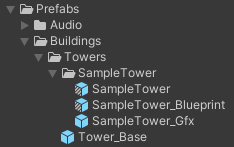
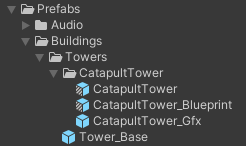
docs: for first tower prototype

Changed region(s): [[0.1197, 0.137, 0.9573, 0.9863], [0.0897, 0.0274, 0.359, 0.1096]]

diff --git a/docs/content/docs/docs-technical/systems/towers/index.md b/docs/content/docs/docs-technical/systems/towers/index.md
@@ -5,31 +5,36 @@ description: Dokumentation über Türme.
 ---
 
 Auf dieser Seite findet sich die Dokumentation, wie man einen Turm im Spiel erstellen und organisiert ablegen kann.
+Wichtig zu verstehen ist, dass der Turm selbst keine großartige Funktion hat.
+Oft würde die Funktion, z.B. von einem Katapult-Turm, direkt "in den Turm" implementiert werden.
+Wir gehen im Spiel allerdings einen anderen Ansatz und sehen die Waffe als eigenständige Waffe, die die eigentliche Funktion implementiert hat.
+Der Turm ist nur ein "Etwas", das die Waffe trägt.
+Daher ist es wichtig, sich auch den Abschnitt über [Waffen](../weapons/) durchzulesen.
 
-## Prefab
+## Organisation
+
+### Prefabs
 
 Im Ordner `_Game/Prefabs/Buildings/Towers` befinden sich alle vom Spieler baubaren Türme.
 Jeder Turm bekommt hier seinen eigenen Ordner.
 
-Als Beispiel zeigt das Bild den "SampleTower":
+Als Beispiel zeigt das Bild den "CatapultTower":
 
-![SampleTower](assets/towers.png)
+![CatapultTower](assets/towers.png)
 
-Im Bild unten zu sehen ist das Basis-Prefab `Tower_Base`, das für alle Türme genutzt werden muss.
-Aus diesem Prefab wird eine Variante für den eigentlichen Tower erstellt.
+Jeder Turm besteht aus drei Prefabs:
 
-Jeder Turm benötigt drei Prefabs:
-
-1. `Turm_Gfx`: Beinhaltet die grafische Umsetzung des Turms ohne weitere Scripts.
-2. `Turm_Blueprint`: Ist eine Variante von `Turm_Gfx`, bei dem die Materialen zum `Blueprint` geändert wurden.
+1. `Turmname_Gfx`: Beinhaltet die grafische Umsetzung des Turms ohne weitere Scripts.
+2. `Turmname_Blueprint`: Ist eine Variante von `Turmname_Gfx`, bei dem die Materialen zum `Blueprint` geändert wurden.
   Diese Repräsentation wird genutzt, um dem Spieler ein "Geist"-Element anzuzeigen, wo der Turm gebaut werden kann.
   Im Bild sieht man links den Blueprint/Geist und rechts den gebauten Turm.
 
   ![Geist und echter Turm](assets/ghost.png)
 
-3. `Turm`: Der eigentliche Turm. Er nutzt `Turm_Gfx` für die visuelle Darstellung (siehe Abschnitt [Turmaufbau](#Turmaufbau)) und hat alle benötigten Scripts, um seine Funktion zu erfüllen.
+3. `Turmname`: Der eigentliche funktionierende Turm, der im Spiel platziert wird. Er nutzt `Tower_Base` als Basis-Prefab,
+`Turmname_Gfx` für die visuelle Darstellung und eine Waffe. Wie genau alles zusammengestöpselt ist, erklärt der Abschnitt [Turmaufbau](#Turmaufbau).
 
-## ScriptableObject
+### ScriptableObject
 
 Zu jedem baubaren Turm gehört ein ScriptableObject, das im Ordner `_Game/ScriptableObjects/Buildings/Towers` abgelegt wird.
 
@@ -37,12 +42,31 @@ Zu jedem baubaren Turm gehört ein ScriptableObject, das im Ordner `_Game/Script
 
 In diesem ScriptableObject stehen aktuell nur, welches Prefab gebaut werden kann und welches Prefab als Blueprint dient.
 
-Später werden hier noch weitere Informationen stehen, z.B. welche Basis-Reichweite, -Feuerkraft, etc. ein Turm hat.
-
 ## Turmaufbau
+
+Im weiteren wird beschrieben, wie die drei Prefabs für einen Turm aufgebaut sind.
+
+### Gfx-Prefab
+
+![Gfx-Prefab](assets/gfx-organization.png)
+
+* Basis-Prefab.
+* Beinhaltet direkt das Modell oder Modelle für die visuelle Repräsentation.
+* Beinhaltet ein leeres GameObject "Weapon" das dort platziert, wo später die Waffe vom Turm stehen wird.
+
+### Blueprint-Prefab
+
+![Blueprint-Prefab](assets/blueprint-organization.png)
+
+* Varianten-Prefab vom obigen Gfx-Prefab.
+* Hier werden alle Materialen (sofern nötig) zum Blueprint-Material geändert.
+* Sollte der Turm irgendwelche Effekte haben, die wir im Baumodus nicht benötigen, dann können sie hier ausgeschaltet werden.
+* In das GameObject `Weapon` wird jetzt die visuelle Repräsentation einer Waffe gelegt (siehe [Waffenaufbau](../weapons/#Waffenaufbau).
+
+### Turm-Prefab
 
 ![Turmaufbau](assets/tower-organization.png)
 
-Jeder Turm besteht aus der `Tower_Base`.
-In dessen GameObject `GFX` wird das Prefab `Turm_Gfx` abgelegt.
-Alle weiteren Scripts und was sonst so benötigt wird, um den Turm zum Leben zu erwecken, werden direkt auf Root-Objekt platziert.
+* Varianten-Prefab von `Tower_Base`.
+* In das GameObject `GFX` wird das Gfx-Prefab (siehe oben) abgelegt.
+* Beinhaltet alle Scripts, um den Turm zum Leben zu erwecken.

diff --git a/docs/content/docs/docs-technical/systems/weapons/_index.md b/docs/content/docs/docs-technical/systems/weapons/_index.md
@@ -1,0 +1,66 @@
+---
+title: Waffen
+linkTitle: Waffen
+description: Dokumentation über Waffen.
+---
+
+Auf dieser Seite finden sich alle Informationen zu den im Spiel implementiert Waffen und wie man neue Waffen erstellen kann.
+Wichtig ist, dass mit Waffe nicht der Turm gemeint ist.
+Der [Turm](../towers/) ist eine recht dümmliche Struktur, die nur zum Tragen einer Waffe dient.
+
+Die Waffe implementiert die Funktion, um z.B. ein Katapult zum Abschuss zu bringen.
+Daher unterscheiden wir die [Waffen nach ihrer Art](weapon-types/), z.B. ballistische Waffen (Katapult), direkte Waffen (Gewehre), etc.
+
+## Organisation
+
+Ähnlich wie [Türme](../towers/) bestehen Waffen aus Prefabs und ScriptableObjects.
+
+### Prefabs
+
+Im Ordner `_Game/Prefabs/Weapons` befinden sich alle Waffen.
+Jede Waffe bekommt hier einen eigenen Ordner.
+
+Als Beispiel zeigt das Bild das "Catapult":
+
+![Waffen-Prefabs](assets/weapons.png)
+
+Jede Waffe besteht aus zwei Prefabs:
+
+1. `Waffenname_Gfx`: Beinhaltet die grafische Umsetzung der Waffe ohne weitere Scripts.
+2. `Waffenname`: Ist eine Variante von `Waffenname_Gfx` und beinhaltet alle Scripts, um die Waffe zum Leben zu erwecken.
+
+### ScriptableObject
+
+Zu jeder Waffe gehört ein ScriptableObject, das im Ordner `_Game/ScriptableObjects/Weapons` abgelegt wird.
+
+![ScriptableObject einer Waffe](assets/weapon-so.png)
+
+In diesem ScriptableObject werden alle Parameter für eine Waffe festgehalten, z.B.
+
+* Reichweite
+* Mindestreichweite
+* Angriffswinkel
+* etc.
+
+Diese Werte sind als Basiswerte zu verstehen und werden später durch Forschung verbessert werden können.
+
+## Waffenaufbau
+
+### Gfx-Prefab
+
+![Gfx-Prefab](assets/weapon-gfx.png)
+
+* Basis-Prefab.
+* Beinhaltet direkt das Modell oder Modelle für die visuelle Repräsentation.
+
+### Waffe-Prefab
+
+* Varianten-Prefab vom obigen Gfx-Prefab.
+* Beinhaltet alle Scripts, um die Waffe zum Leben zu erwecken.
+
+![Waffe-Inspektor](assets/weapon-inspector.png)
+
+* Eine Waffe nutzt je nach Waffenart ein bestimmtes Script.
+  * z.B. benutzt eine ballistische Waffe das Script `BallisticWeapon`.
+  * Hier wird das ScriptableObject für die Waffendefinition verknüpft (siehe [oben](#ScriptableObject) als auch ein [Target Locator](target-locator/).
+  * Zusätzlich wird das Prefab für ein [Projektil](weapon-types/#Projektile) bestimmt.

diff --git a/docs/content/docs/docs-technical/systems/weapons/weapon-types/index.md b/docs/content/docs/docs-technical/systems/weapons/weapon-types/index.md
@@ -1,0 +1,31 @@
+---
+title: Waffenarten
+linkTitle: Waffenarten
+description: Dokumentation über Waffenarten.
+---
+
+Die Idee der Gruppierung in Waffenarten ist, dass man ähnliche Waffen nicht mehrfach implementieren muss.
+Ein Beispiel wäre ein Katapult und ein Trebuchet.
+Beides sind ballistische Waffen, die in ihrer Grundfunktion gleich sind: Sie schleudern ein Projektil auf den Gegner.
+Der Unterschied ist am Ende nur etwas in der Animation, (Mindest-)Reichweite und Stärke.
+Ansonsten sind diese Waffen gleich.
+Es wäre daher nicht gut, wenn wir beide Waffen jedes mal von Grund auf implementieren müssen.
+
+Im Ideallfall nutzen beide das gleiche Script für eine ballistische Waffe und unterscheiden sich nur in den Parametern und natürlich im visuellen Modell.
+
+## Ballistische Waffen
+
+Zu ballistischen Waffen gehören z.B. Katapulte, Trebuchets, etc. - alles, was ein Projektil durch die Luft schleudert.
+Charakterstisch für diese Waffen ist oft, dass sie ungenau sind, aber dafür Flächenschaden anrichten.
+Auch sind die oft recht langsam und das Projektil benötigt einige Zeit, um das Ziel zu treffen.
+Für ballistische Waffen exitiert ein ScriptableObject vom Typ `BallisticWeaponSO`.
+
+Beispiel vom Katapult:
+
+![Katapult](../assets/weapon-so.png)
+
+### Projektile
+
+Ballistische Waffen verschießen Projektile, die aktuell so implementiert sind, dass sie physikalisch korrekt fliegen.
+Ein Projektil hat einen dynamischen Rigidbody und wird durch die Gravitation nach unten gezogen.
+Beim Start ein Projektiles wird einmalig die Abschuss-Velocity bestimmt anhand dessen das Projektil zu seinem Zielpunkt fliegt.

diff --git a/docs/content/docs/docs-technical/systems/weapons/target-locator/index.md b/docs/content/docs/docs-technical/systems/weapons/target-locator/index.md
@@ -1,0 +1,27 @@
+---
+title: TargetLocator / Zielerfassung
+linkTitle: TargetLocator / Zielerfassung
+description: Dokumentation über TargetLocator / Zielerfassung.
+---
+
+Ein wichtiger Punkt bei jedem Tower Defense Spiel ist das Erfassen, welches Ziel als nächstes angegriffen wird.
+
+Das übernimmt in unserem Spiel ein TargetLocator-ScriptableObject.
+Ihn wird es in mehreren Ausführungen geben, aktuell ist nur ein TargetLocator für ballistische Waffen implementiert.
+
+Im groben läuft das Herausfinden des nächsten Ziels so ab, sofern die Waffe noch kein Ziel hat:
+
+1. Finde alle Gegner im Umkreis des Turms (der durch die [Waffe](../) selbst bestimmt wird.
+2. Schaue, welche der Gegner, die gefunden wurden, auch im passenden Angriffswinkel der Waffe sind.
+  Z.B. kann ein Katapult Gegner treffen, die in einem 90°-Winkel vor der Waffe sind, es kann also nicht seitlich oder nach hinten schießen.
+  3. Falls Gegner im richtigen Angriffswinkel sind, suche je nach [TargetType](#TargetType) der Waffe einen Gegner aus.
+4. Gegner wurde gefunden und wird solange verfolgt, bis er entweder zerstört wurde oder außerhalb der Angriffsreichweite ist.
+
+## TargetType
+
+Der TargetType bestimmt, welche Art von Gegner bevorzugt wird:
+
+* `Closest`: Der Gegner, der am nahesten ist.
+* `Random`: Irgendein Gegner.
+
+Diese zwei sind bereits implementiert und können später noch erweitert werden.
